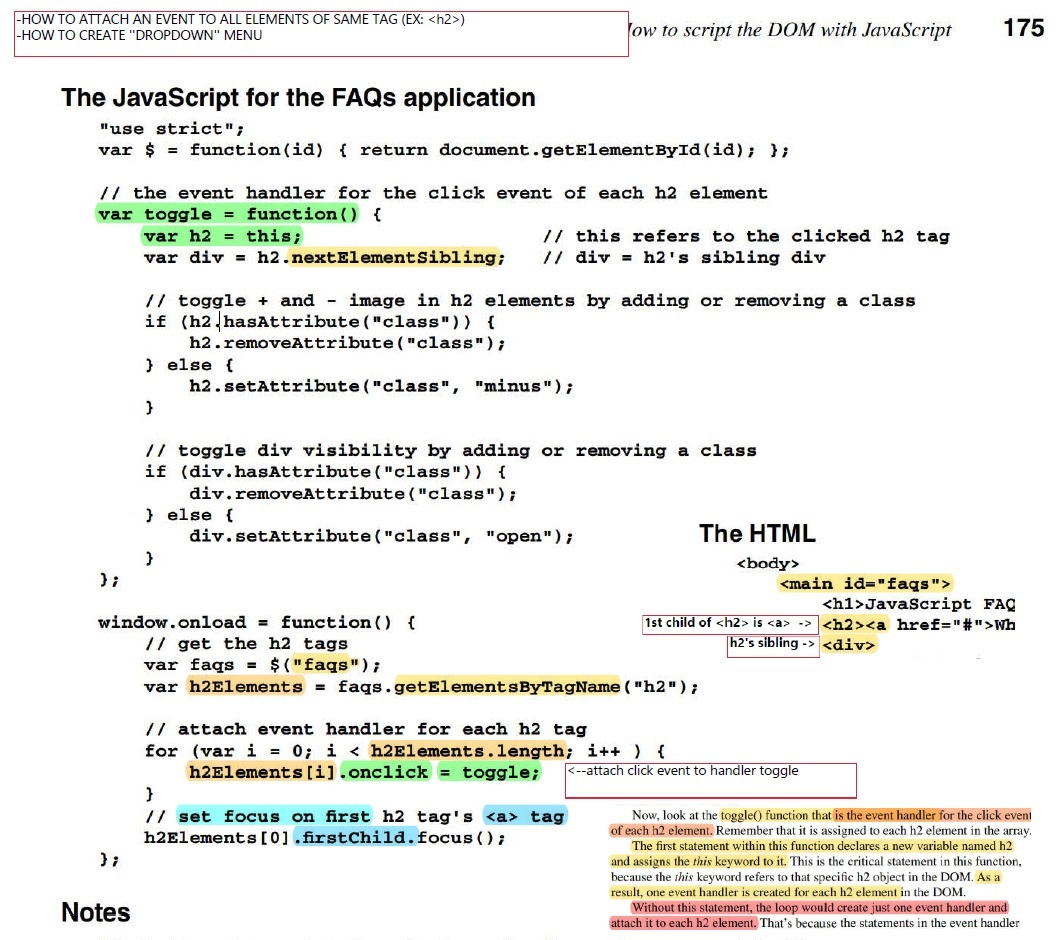
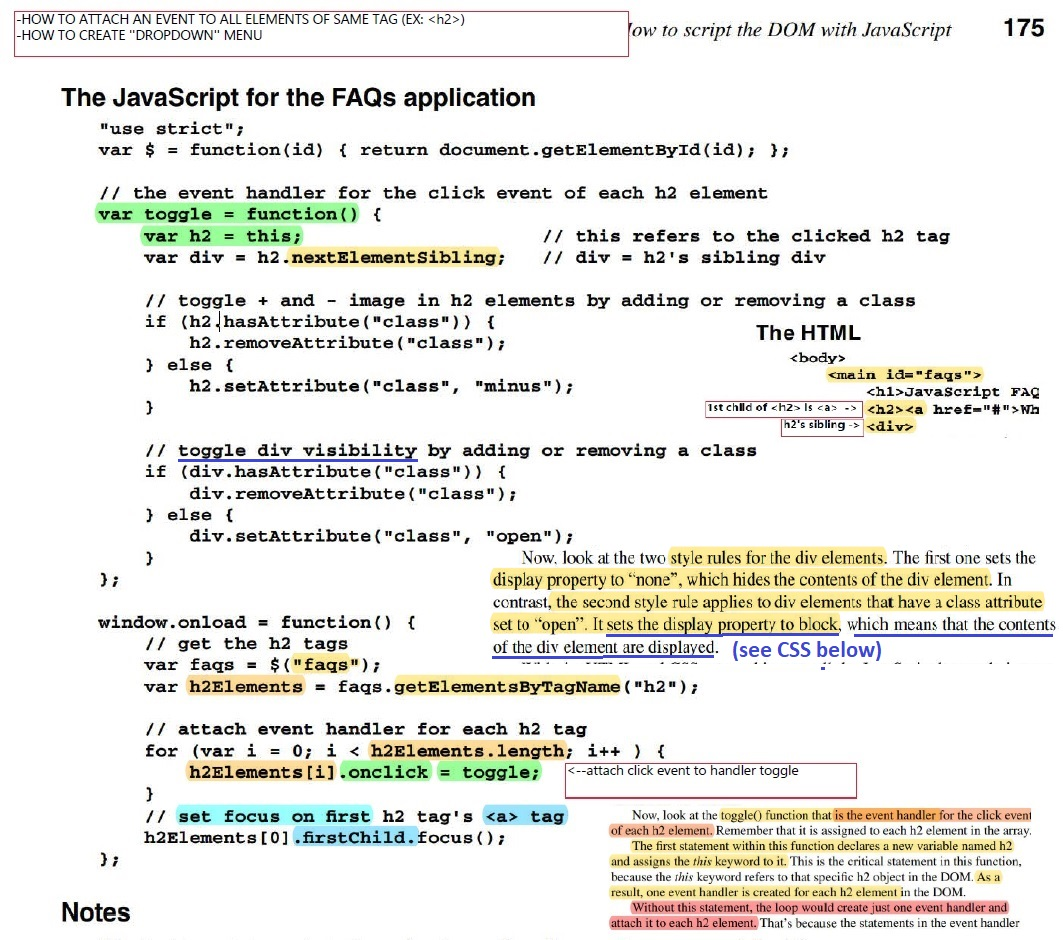
f

Changed region(s): [[0.4657, 0.5553, 0.9934, 0.7096], [0.683, 0.3394, 0.9934, 0.4628], [0.1863, 0.4628, 0.3725, 0.4936]]

diff --git a/Glossary/javascript.html b/Glossary/javascript.html
@@ -223,10 +223,13 @@ tax= tax.toFixed(2);
   	</script> 
   	
   	<br><br><br>
+  
   	<img src="img/domNodes.jpg" id=domNodes><br><br><br><br>
   	 <img src="img/elemNodes.jpg" id=elemNodes><br><br><br><br>     
 <img src="img/domHtmlSpec.jpg" id=domHtmlSpec><br><br><br><br>
-<img src="img/attachAllTag.jpg" id=attachAllTag><br><br><br><br>
+<img src="img/attachAllTag.jpg" id=attachAllTag>
+<img src="img/domCss.jpg" id=domCss>
+<br><br><br><br>
 
 
 
